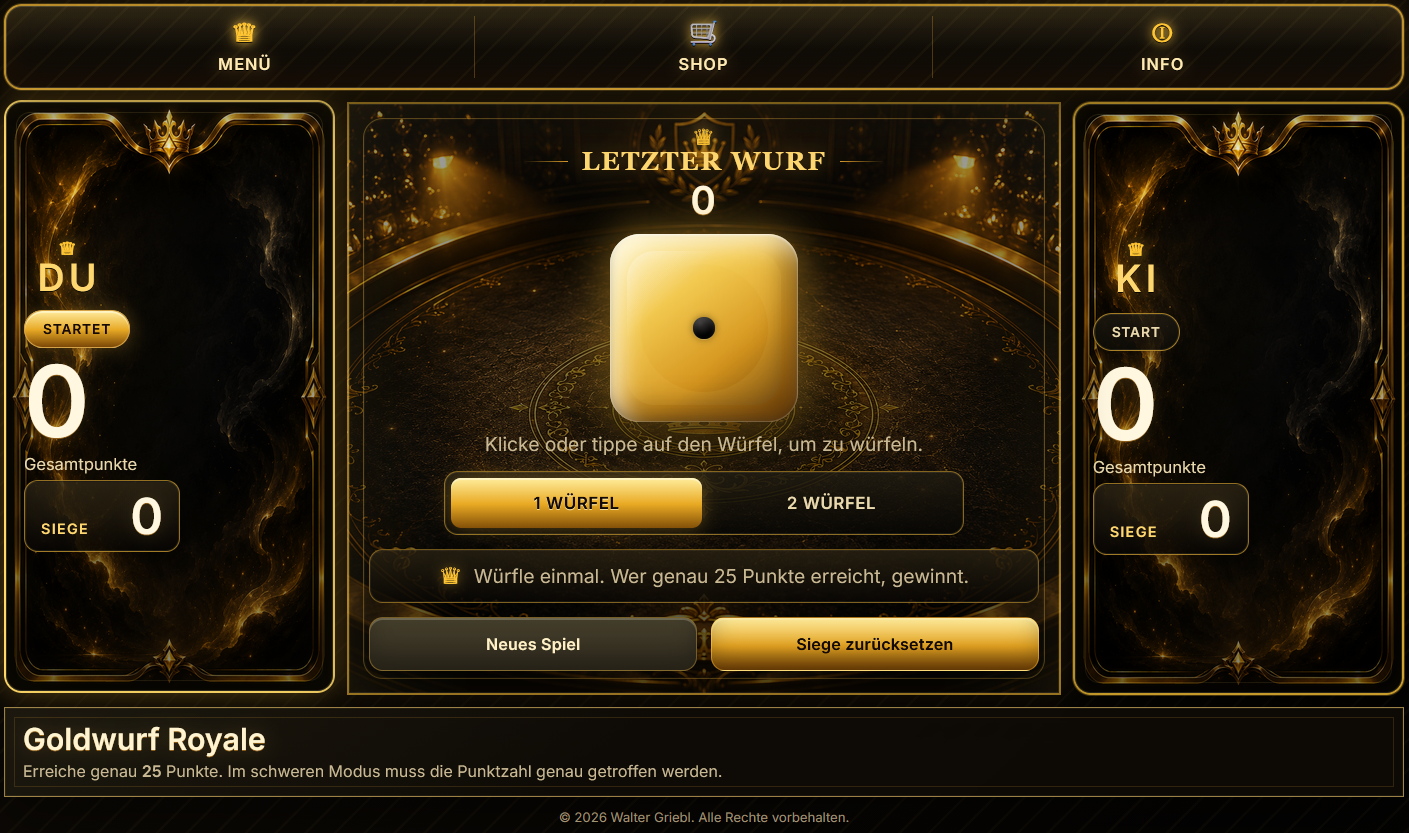
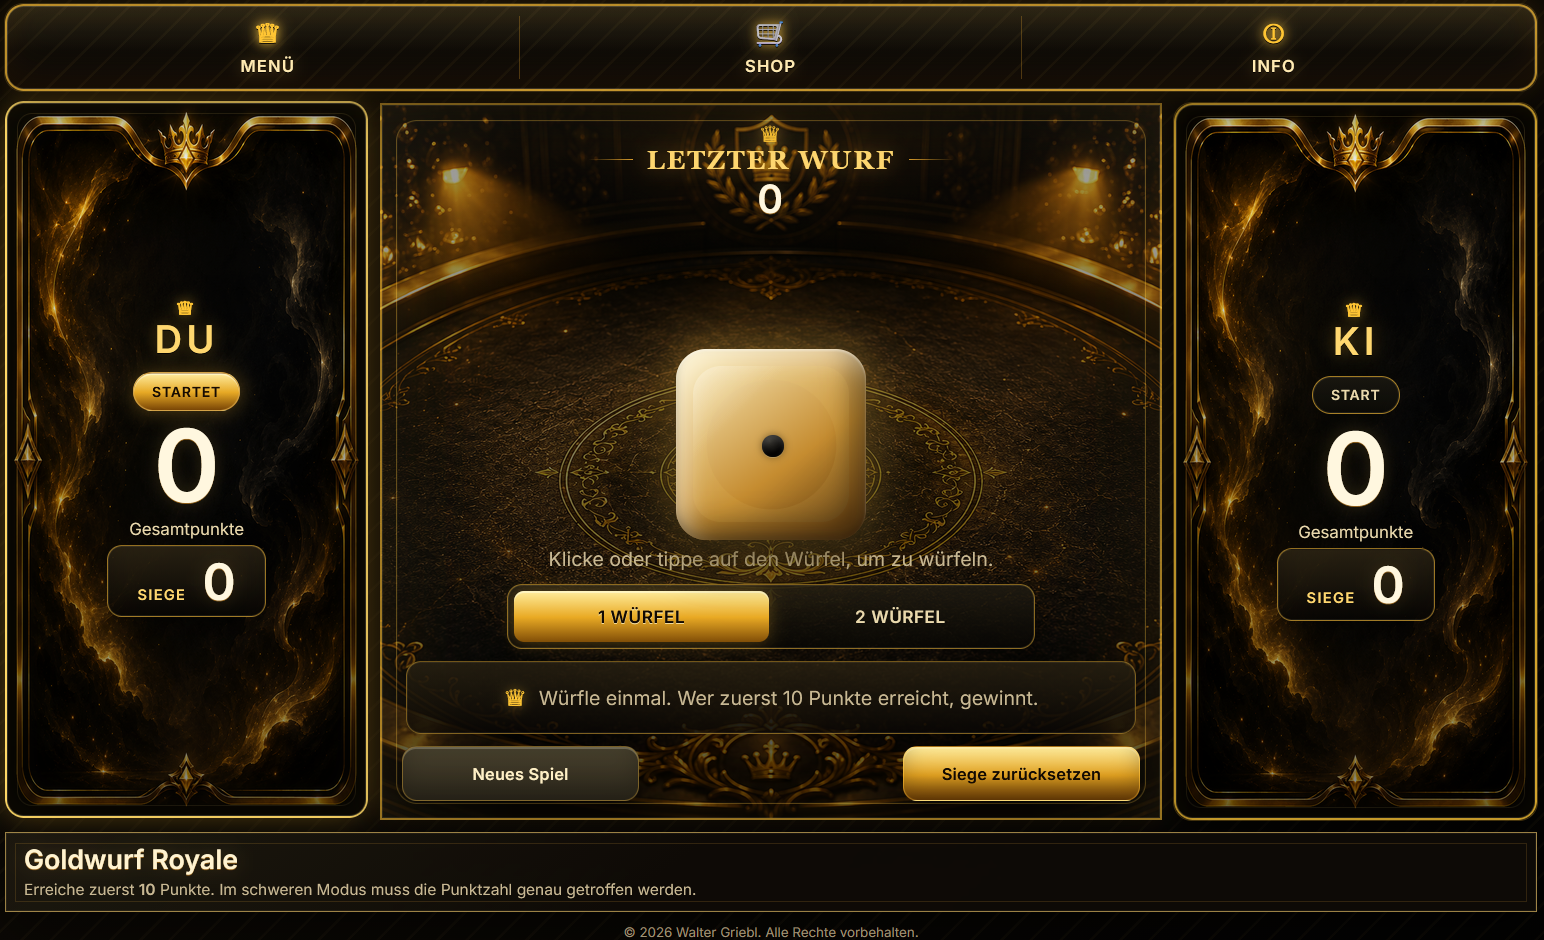
Update Webseite

diff --git a/README.md b/README.md
@@ -1,6 +1,6 @@
 # Goldwurf Royale
 
-**Version 1.48**
+**Version 1.61**
 
 Ein kleines, mobiles Wuerfelspiel fuer Web und Smartphone.
 Spiele alleine gegen die KI oder lokal zu zweit am selben Geraet.
@@ -12,14 +12,18 @@ Spiele alleine gegen die KI oder lokal zu zweit am selben Geraet.
 - Singleplayer gegen KI
 - Multiplayer am selben Geraet
 - Startspieler auswaehlbar
+- frei waehlbare Zielpunkte von 10 bis 999
 - 1 oder 2 Wuerfel
 - Normal- und Schwer-Modus
 - Risiko-Modus
 - Gamble-Modus mit Zugpunkten und Sichern
+- Orakel-Modus mit Zahlenauswahl vor dem Wurf
+- Goldbelohnungen und Shop fuer kosmetische Wuerfel-Skins
 - Soundeffekte und optionale Hintergrundmusik
 - Hell-/Dunkelmodus
 - gespeicherte Einstellungen, Spielernamen, Siege, Gold und Shop-Freischaltungen
 - optimiert fuer Web und Mobile
+- optimierte Breitbild-Ansicht im Querformat
 - installierbar als PWA
 - nach dem ersten Besuch offline startbar
 
@@ -42,7 +46,7 @@ Das Spiel ist eine statische Webseite ohne npm-, Build- oder Framework-Abhaengig
 - `styles.css` - Layout, Themes und Animationen
 - `script.js` - Spiellogik, Einstellungen, Audio und Service-Worker-Registrierung
 - `version.js` - zentrale Versionsquelle (`APP_VERSION`)
-- `service-worker.js` - Offline-Cache fuer die PWA
+- `sw.js` - Offline-Cache fuer die PWA
 - `manifest.webmanifest` - Installationsdaten und App-Icons
 - `assets/` und Icons - lokale Bild- und App-Assets
 
